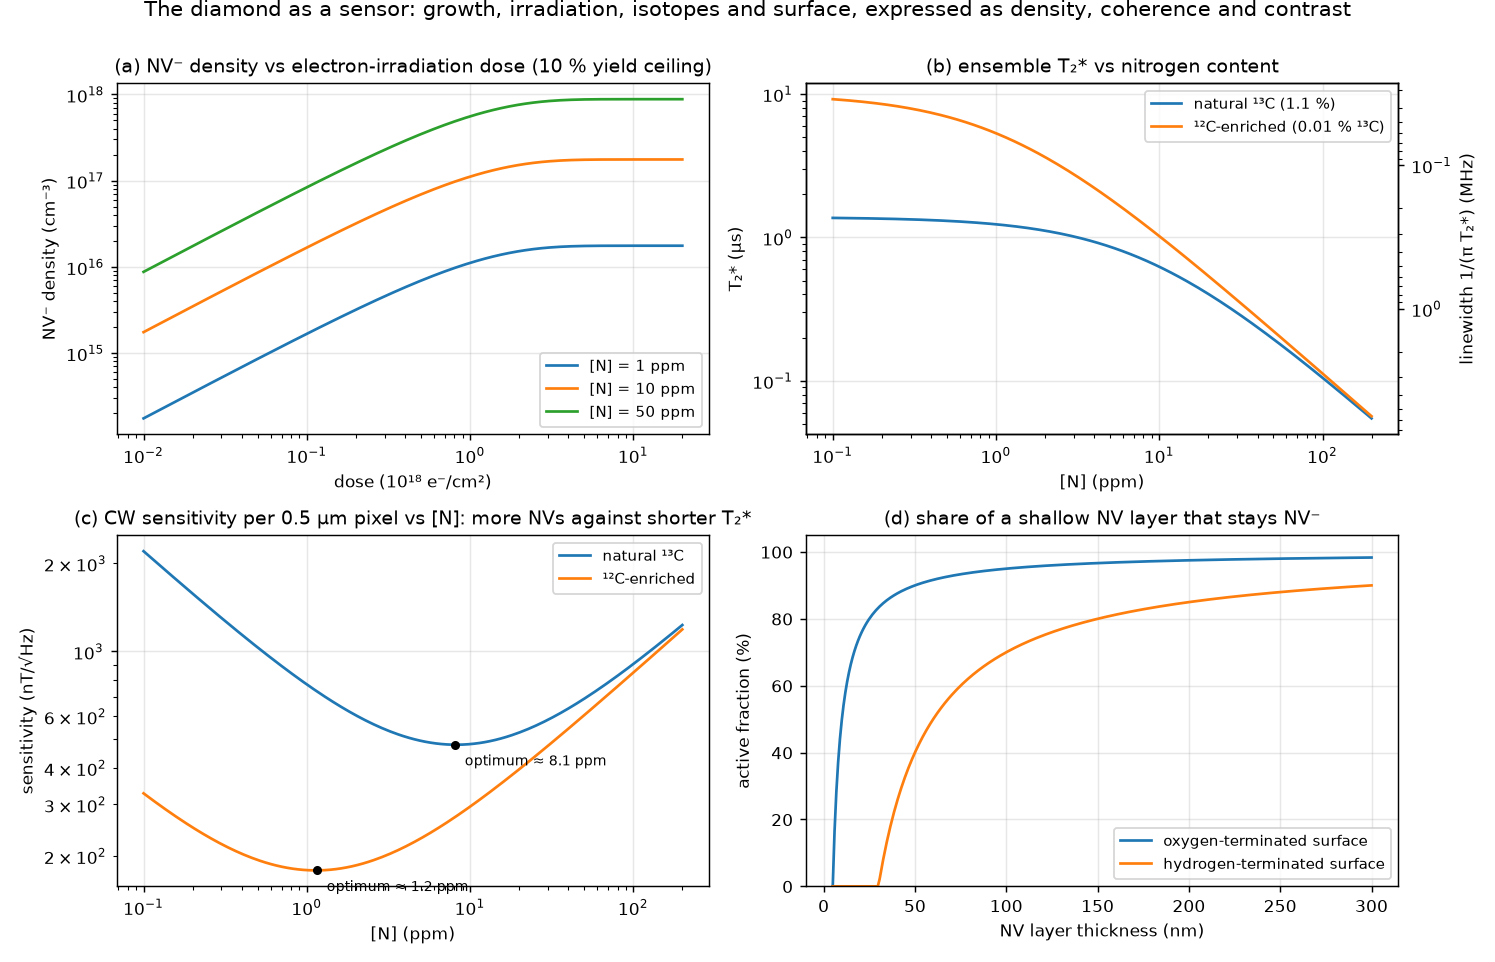
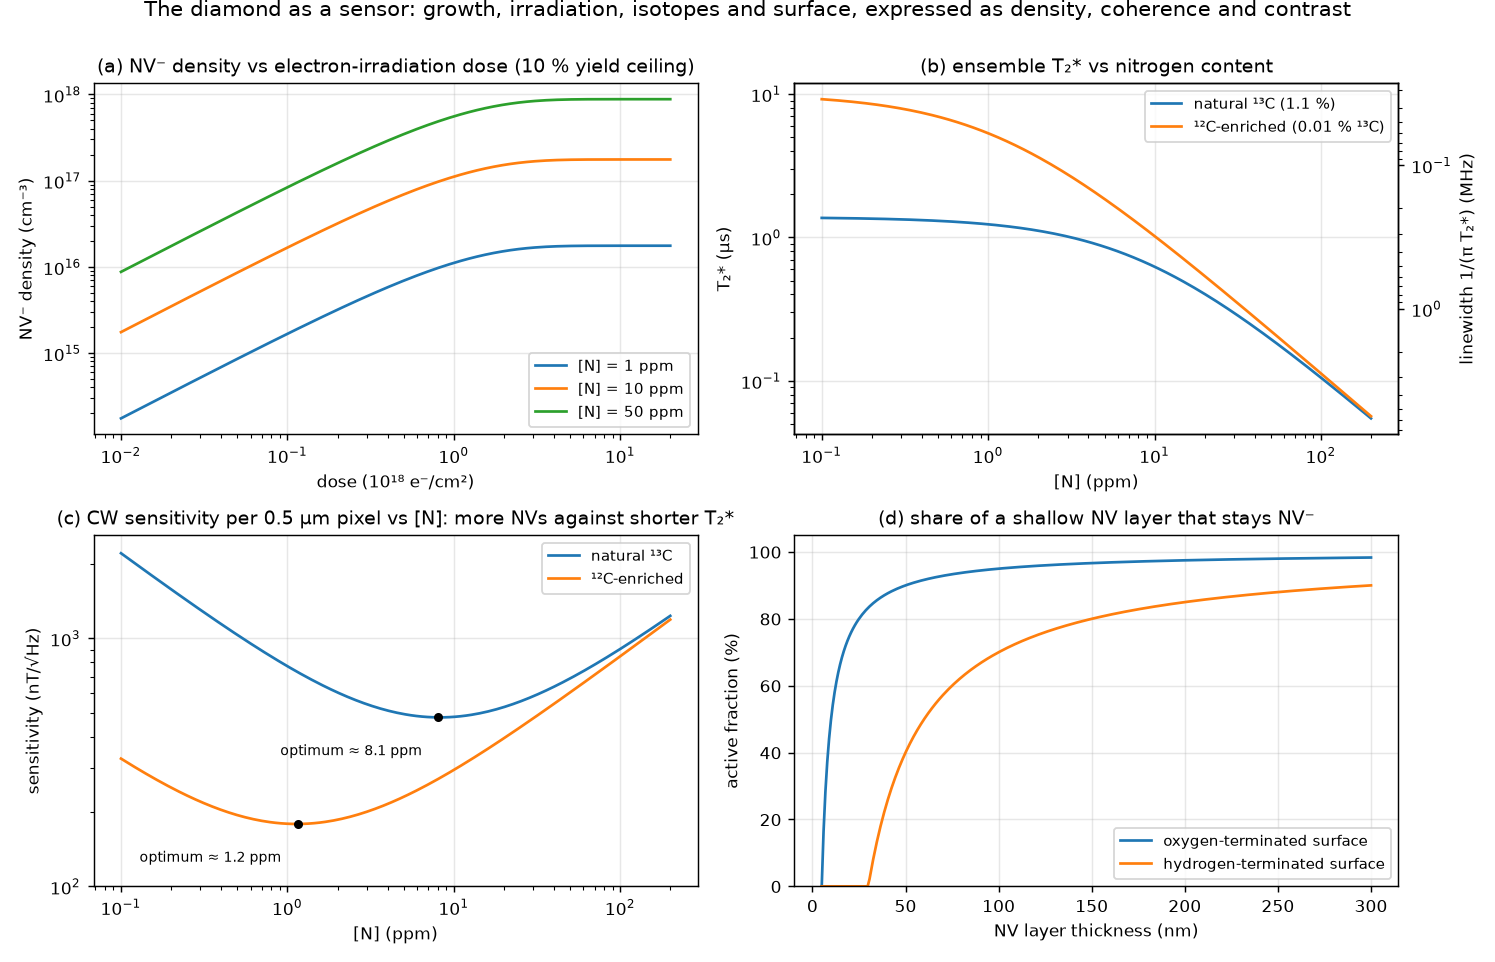
Figure layout: legends and in-plot labels placed clear of the curves; RMS values in the optiland panel titles

diff --git a/scripts/figs.py b/scripts/figs.py
@@ -46,7 +46,7 @@ a.plot((fz - f0) * 1e3, s1, label="B + 20 µT along the axis: shift 0.56 MHz")
 a.axvline(-0.29, color="k", ls=":", lw=0.8)
 a.annotate("readout point:\nthe steepest slope", xy=(-0.29, 0.9975), xytext=(-3.8, 0.9962), fontsize=8, arrowprops=dict(arrowstyle="->", color="k", lw=0.8))
 a.set(title="(c) how a field becomes a signal", xlabel="detuning from the line (MHz)", ylabel="fluorescence (normalised)")
-a.legend(loc="lower right")
+a.set_ylim(0.9925, 1.00025); a.legend(loc="lower right")
 fig.suptitle("Nitrogen-vacancy ground state: D = 2.870 GHz, γ = 28.0 MHz/mT, four <111> orientations", y=1.0)
 fig.tight_layout(); fig.savefig(OUT / "fig1_odmr.png"); print("fig1")
 
@@ -55,20 +55,19 @@ fig, ax = plt.subplots(1, 3, figsize=(12.5, 3.9))
 na = np.linspace(0.1, 0.95, 200)
 a = ax[0]
 a.plot(na, [100 * photons.collection_fraction(v) for v in na], label="bare (100) surface")
-a.plot(na, [100 * photons.collection_fraction(v, back_mirror=True) for v in na], label="bare + reflective back side")
-a.plot(na, [100 * photons.collection_fraction(v, sil=True) for v in na], label="solid immersion lens (n = 2.42)")
-a.axhline(100 * photons.escape_cone_fraction() * photons.FRESNEL_T_NORMAL, color="k", ls="--", lw=0.8)
-a.text(0.12, 4.1, "escape-cone limit of a flat surface, 3.8 %", fontsize=8)
+a.plot(na, [100 * photons.collection_fraction(v, back_mirror=True) for v in na], label="bare, mirrored back side")
+a.plot(na, [100 * photons.collection_fraction(v, sil=True) for v in na], label="solid immersion lens")
+a.axhline(100 * photons.escape_cone_fraction() * photons.FRESNEL_T_NORMAL, color="k", ls="--", lw=0.8, label="flat-surface escape cone: 3.8 %")
 a.set(title="(a) fraction of NV photons collected", xlabel="numerical aperture", ylabel="collected (%)", yscale="log", ylim=(0.05, 60))
-a.legend(loc="upper left")
+a.set_ylim(0.015, 60); a.legend(loc="lower right", fontsize=8)
 
 a = ax[1]
 I = np.logspace(1, 6.3, 300)
 cfg = {"bare, NA 0.9": photons.collection_fraction(0.9), "back mirror, NA 0.9": photons.collection_fraction(0.9, back_mirror=True), "SIL, NA 0.9": photons.collection_fraction(0.9, sil=True)}
 for lab, c in cfg.items():
     a.loglog(I, [photons.photon_rate_per_pixel(i, 1e17, 1.0, 1.0, c) for i in I], label=lab)
-a.axvline(1e3, color="gray", ls=":", lw=0.8); a.text(1.2e3, 2e9, "typical widefield\n1 kW/cm²", fontsize=8, color="gray")
-a.axhline(1e7, color="gray", ls="--", lw=0.8); a.text(15, 1.4e7, "camera full well at 100 frames/s", fontsize=8, color="gray")
+a.axvline(1e3, color="gray", ls=":", lw=0.8); a.text(7e2, 3e10, "typical widefield\n1 kW/cm²", fontsize=8, color="gray", ha="right")
+a.axhline(1e7, color="gray", ls="--", lw=0.8); a.text(2e6, 1.4e7, "camera full well at 100 frames/s", fontsize=8, color="gray", ha="right")
 a.set(title="(b) detected photons per 1 µm pixel", xlabel="532 nm intensity (W/cm²)", ylabel="photons / s / pixel")
 a.legend(loc="lower right")
 
@@ -101,7 +100,7 @@ for n_a in (0.5, 0.9):
     a.plot(ds, [optics.wire_response_width_um(n_a, d) for d in ds], label=f"NA {n_a}: peak-to-peak width")
     a.axhline(optics.diffraction_fwhm_um(n_a), color="gray", ls=":", lw=0.8)
 a.plot(ds, 2 * ds, "k--", lw=0.8, label="2 × stand-off")
-a.text(3.2, 0.9, "diffraction floors 0.71 / 0.40 µm", fontsize=8, color="gray")
+a.text(3.2, 1.15, "diffraction floors 0.71 / 0.40 µm", fontsize=8, color="gray")
 a.set(title="(b) imaged wire width vs stand-off", xlabel="stand-off d (µm)", ylabel="width (µm)")
 a.legend(loc="upper left")
 
@@ -112,7 +111,7 @@ for d in (0.5, 1.0, 2.0, 4.0):
     a.semilogx(period, optics.standoff_transfer(k, d), label=f"d = {d} µm")
 a.axhline(0.5, color="k", ls=":", lw=0.8)
 a.set(title="(c) stand-off as a low-pass filter", xlabel="spatial period of the current pattern (µm)", ylabel="field amplitude transferred")
-a.legend(loc="lower right")
+a.legend(loc="upper left")
 fig.suptitle("Spatial resolution: the NV layer sees the chip through the distance between them", y=1.0)
 fig.tight_layout(); fig.savefig(OUT / "fig5_resolution.png"); print("fig5")
 
@@ -149,9 +148,9 @@ im = ax[0, 2].imshow(bz_bare * 1e6, extent=ext, origin="lower", cmap="RdBu_r", v
 fig.colorbar(im, ax=ax[0, 2], label="Bz (µT)")
 jr_free = current.reconstruct_currents(bz, dx, D_TOP, k_cut_per_um=2.0 / D_TOP)
 jmax = np.hypot(*jr_free).max()
-im = ax[1, 0].imshow(np.hypot(*jr_bare), extent=ext, origin="lower", cmap="magma", vmin=0, vmax=jmax); ax[1, 0].set_title("(d) current map from (c), inverted at 1 µm")
+im = ax[1, 0].imshow(np.hypot(*jr_bare), extent=ext, origin="lower", cmap="magma", vmin=0, vmax=jmax); ax[1, 0].set_title("(d) current map from (c),\ninverted at 1 µm")
 fig.colorbar(im, ax=ax[1, 0], label="|J| (A/m)")
-im = ax[1, 1].imshow(np.hypot(*jr_sil), extent=ext, origin="lower", cmap="magma", vmin=0, vmax=jmax); ax[1, 1].set_title(f"(e) with a solid immersion lens: noise {s_sil * 1e9:.0f} nT")
+im = ax[1, 1].imshow(np.hypot(*jr_sil), extent=ext, origin="lower", cmap="magma", vmin=0, vmax=jmax); ax[1, 1].set_title(f"(e) with a solid immersion lens:\nnoise {s_sil * 1e9:.0f} nT")
 fig.colorbar(im, ax=ax[1, 1], label="|J| (A/m)")
 a = ax[1, 2]
 colls = np.logspace(-3, np.log10(0.6), 14)
@@ -165,7 +164,7 @@ for t, lab in ((1.0, "1 s per pixel"), (10.0, "10 s per pixel")):
         errs.append(current.rms_error(jr, j_ref))
     a.semilogx(colls * 100, errs, "o-", ms=3, label=lab)
 for c, lab in ((c_bare, "bare"), (c_sil, "SIL")):
-    a.axvline(c * 100, color="gray", ls=":", lw=0.8); a.text(c * 100 * 1.08, 0.95, lab, fontsize=8, color="gray")
+    a.axvline(c * 100, color="gray", ls=":", lw=0.8); a.text(c * 100 * 1.1, 0.5, lab, fontsize=8, color="gray", rotation=90, va="center")
 a.set(title="(f) noise in the current map vs collection", xlabel="collected fraction (%)", ylabel="RMS error vs noise-free inversion", ylim=(0, 1.0))
 a.legend(loc="upper right")
 for aa in ax.ravel()[:5]:

diff --git a/scripts/fig_rays.py b/scripts/fig_rays.py
@@ -45,17 +45,17 @@ a = ax[0, 2]
 nas = np.linspace(0.3, 0.95, 14)
 for mode, lab, est, kw in (("bare", "bare", lambda v: photons.collection_fraction(v), {}), ("mirror", "mirrored back", lambda v: photons.collection_fraction(v, back_mirror=True), {}), ("sil", "SIL, uncoated", None, {}), ("sil", "SIL, coated", lambda v: photons.collection_fraction(v, sil=True), {"sil_coated": True})):
     mc = [100 * rays.collection_mc(v, mode, n_rays=100_000, **kw) for v in nas]
-    ln, = a.semilogy(nas, mc, "o", ms=4, label=f"{lab}: ray trace")
-    if est: a.semilogy(nas, [100 * est(v) for v in nas], "-", color=ln.get_color(), lw=1, alpha=.7, label=f"{lab}: section 3 estimate")
-a.set(title="(c) collected fraction: traced vs estimated", xlabel="numerical aperture", ylabel="collected (%)"); a.legend(fontsize=7, loc="lower right")
+    ln, = a.semilogy(nas, mc, "o", ms=4, label=f"{lab}, traced")
+    if est: a.semilogy(nas, [100 * est(v) for v in nas], "-", color=ln.get_color(), lw=1, alpha=.7, label=f"{lab}, estimate")
+a.set(title="(c) collected fraction: traced vs estimated", xlabel="numerical aperture", ylabel="collected (%)", ylim=(0.3, 400)); a.legend(fontsize=7, loc="upper left", ncol=2, columnspacing=1.0)
 
 # (d) uniformity across the field with a SIL
 a = ax[1, 0]
 xs = np.linspace(0, 150, 16)
 for R in (1000, 500, 250):
     a.plot(xs, [100 * rays.collection_mc(0.9, "sil", n_rays=100_000, field_um=x, sil_radius_um=R) for x in xs], "o-", ms=3, label=f"SIL radius {R / 1000:g} mm")
-a.axvspan(0, 32, color="gray", alpha=.15); a.text(2, 21.9, "field of view\nof the simulation", fontsize=8)
-a.set(title="(d) SIL collection across the field", xlabel="distance from the SIL centre (µm)", ylabel="collected (%)", ylim=(20.5, 24.5)); a.legend(loc="lower left")
+a.axvspan(0, 32, color="gray", alpha=.15); a.text(2, 20.65, "field of view\nof the simulation", fontsize=8, va="bottom")
+a.set(title="(d) SIL collection across the field", xlabel="distance from the SIL centre (µm)", ylabel="collected (%)", ylim=(20.5, 24.5)); a.legend(loc="upper right")
 
 # (e) illumination: refraction into the slab
 a = ax[1, 1]
@@ -68,7 +68,7 @@ for off in (-36, 0, 36):
     a.plot([x0, x0 - 300 * np.tan(th_t)], [0, -300], color="C2", lw=1.2, alpha=.9)
 a.plot([0, -300 * np.tan(th_t)], [0, -300], color="k", ls=":", lw=0.8)
 a.text(-245, -30, "diamond, 300 µm", fontsize=8); a.text(-245, -290, "NV layer", fontsize=8)
-a.text(120, 150, f"in air: 53.6°\nin diamond: {f['theta_t_deg']:.1f}°\nFresnel: {100 * f['fresnel_t']:.0f} % enters", fontsize=8)
+a.text(-245, 150, f"in air: 53.6°\nin diamond: {f['theta_t_deg']:.1f}°\nFresnel: {100 * f['fresnel_t']:.0f} % enters", fontsize=8)
 a.set(title="(e) the beam refracts at the top face", xlabel="x (µm)", ylabel="z (µm)", xlim=(-250, 250), ylim=(-320, 260)); a.set_aspect("equal"); a.grid(False)
 
 # (f) footprint on the NV layer
@@ -78,6 +78,6 @@ a.plot(36 * np.cos(tt), 36 * np.sin(tt), "--", color="gray", label="beam cross-s
 a.plot(f["semi_axes_um"][0] * np.cos(tt), f["shift_um"] + f["semi_axes_um"][1] * np.sin(tt), color="C2", lw=2, label=f"footprint on the NV layer: {f['semi_axes_um'][0]:.0f} × {f['semi_axes_um'][1]:.0f} µm, shifted {f['shift_um']:.0f} µm")
 a.plot(0, 0, "k+", ms=8); a.plot(0, f["shift_um"], "+", color="C2", ms=8)
 a.text(-95, -80, f"peak intensity {100 * f['peak_factor']:.0f} % of the beam's:\nFresnel loss × stretch", fontsize=8)
-a.set(title="(f) footprint on the NV layer", xlabel="x (µm)", ylabel="y (µm, along the tilt)", xlim=(-100, 100), ylim=(-100, 190)); a.set_aspect("equal"); a.legend(fontsize=7.5, loc="upper left")
+a.set(title="(f) footprint on the NV layer", xlabel="x (µm)", ylabel="y (µm, along the tilt)", xlim=(-100, 100), ylim=(-100, 235)); a.set_aspect("equal"); a.legend(fontsize=7.5, loc="upper left")
 fig.suptitle("Ray tracing the two optical paths: what the surfaces do to the collection and to the illumination", y=1.0)
 fig.tight_layout(); fig.savefig(OUT / "fig9_rays.png"); print("fig9")

diff --git a/scripts/figs_material.py b/scripts/figs_material.py
@@ -45,9 +45,9 @@ for x, lab in ((material.C13_NATURAL, "natural ¹³C"), (1e-4, "¹²C-enriched")
         w = material.linewidth_hz(material.t2_star_s(n, x))
         eta.append(1e9 * protocols.eta_cw(r, w, material.contrast(), 2.0))
     a.loglog(nppm, eta, label=lab)
-    i = int(np.argmin(eta)); a.plot(nppm[i], eta[i], "ko", ms=4); a.text(nppm[i] * 1.15, eta[i] * 0.85, f"optimum ≈ {nppm[i]:.1f} ppm", fontsize=8)
+    i = int(np.argmin(eta)); a.plot(nppm[i], eta[i], "ko", ms=4); a.text(nppm[i] * 0.8, eta[i] * 0.78, f"optimum ≈ {nppm[i]:.1f} ppm", fontsize=8, ha="right", va="top")
 a.set(title="(c) CW sensitivity per 0.5 µm pixel vs [N]: more NVs against shorter T₂*", xlabel="[N] (ppm)", ylabel="sensitivity (nT/√Hz)")
-a.legend(loc="upper right")
+a.set_ylim(1.0e2, 2.6e3); a.legend(loc="upper right")
 
 a = ax[1, 1]
 thick = np.linspace(0.005, 0.3, 300)
@@ -70,7 +70,7 @@ eta = np.array([protocols.eta_cw(R, w0, c0, v) for v in s])
 a.semilogx(s, w, label="linewidth / intrinsic")
 a.semilogx(s, c, label="contrast / maximum")
 a.semilogx(s, eta / eta.min(), label="sensitivity / best")
-a.axvline(2, color="k", ls=":", lw=0.8); a.text(2.2, 3.2, "optimum s = 2:\nwidth ×√3, contrast ⅔", fontsize=8)
+a.axvline(2, color="k", ls=":", lw=0.8); a.text(28, 0.12, "dotted line: optimum s = 2,\nwidth ×√3, contrast ⅔", fontsize=8, ha="right", va="bottom")
 a.set(title="(a) CW ODMR against microwave drive", xlabel="saturation parameter s = (Ω/Ω_sat)²", ylabel="relative", ylim=(0, 4))
 a.legend(loc="upper left")
 
@@ -80,7 +80,7 @@ a.loglog(t2 * 1e6, [1e9 * protocols.eta_cw(R, material.linewidth_hz(t), c0, 2.0)
 a.loglog(t2 * 1e6, [1e9 * protocols.eta_pulsed_odmr(R, t, c0) for t in t2], label="pulsed ODMR (1 µs readout, 2 µs init)")
 a.loglog(t2 * 1e6, [1e9 * protocols.eta_ramsey(R, t, c0) for t in t2], label="Ramsey, τ = T₂*/2")
 a.set(title="(b) sensitivity vs T₂* at the widefield photon rate", xlabel="T₂* (µs)", ylabel="sensitivity per pixel (nT/√Hz)")
-a.legend(loc="upper right")
+a.legend(loc="lower left")
 
 a = ax[2]
 tr = np.logspace(-7, -5, 200)

diff --git a/scripts/optiland_imaging.py b/scripts/optiland_imaging.py
@@ -56,14 +56,14 @@ if __name__ == "__main__":
     rows = []
     airy = 0.61 * LAMBDA_UM / 0.9
     for a, (mode, na, lab) in zip(ax, cases):
-        o = system(mode, na)
+        o = system(mode, na); pair = []
         for hy, fy, col in ((0.0, 0, "C0"), (1.0, 32, "C3")):
             x, y, rms = spot(o, hy)
-            a.plot(x, y, ".", ms=2, color=col, alpha=.6, label=f"field {fy} µm: RMS {rms:.2f} µm")
-            rows.append((lab, fy, rms))
+            a.plot(x, y, ".", ms=2, color=col, alpha=.6, label="centre of the field" if fy == 0 else "32 µm off centre")
+            rows.append((lab, fy, rms)); pair.append(rms)
         c = plt.Circle((0, 0), airy, fill=False, color="k", ls=":", lw=1); a.add_patch(c)
-        a.set(title=lab, xlabel="x at the NV layer (µm)", ylabel="y (µm)", xlim=(-3, 3), ylim=(-3, 3)); a.set_aspect("equal"); a.legend(fontsize=8, loc="upper right"); a.grid(alpha=.3)
-    ax[0].text(-2.9, -2.8, f"dotted: Airy radius {airy:.2f} µm at NA 0.9", fontsize=8)
+        a.set(xlabel="x at the NV layer (µm)", ylabel="y (µm)", xlim=(-3, 3), ylim=(-3, 3)); a.set_title(f"{lab}\nRMS {pair[0]:.2f} µm at the centre, {pair[1]:.2f} µm at 32 µm off", fontsize=10); a.set_aspect("equal"); a.grid(alpha=.3)
+    ax[1].legend(fontsize=8, loc="upper right"); ax[1].text(-2.9, -2.8, f"dotted: Airy radius {airy:.2f} µm at NA 0.9", fontsize=8)
     fig.suptitle("Spot diagrams at the NV layer through an ideal objective (optiland 0.6.1): the diamond plate adds spherical aberration, the SIL does not", y=1.0)
     fig.tight_layout(); fig.savefig(OUT / "fig10_optiland.png"); print("fig10")
     for lab, fy, rms in rows:

diff --git a/scripts/fig_two_layer.py b/scripts/fig_two_layer.py
@@ -59,10 +59,9 @@ for i, (lab, vals) in enumerate(rows.items()):
     v = np.array(vals) * 1e6
     a.bar(xs + (i - 1) * w, v[:, 1], w, label=f"{lab}: deep loop", color=f"C{i}")
     a.bar(xs + (i - 1) * w, v[:, 0], w * 0.5, color=f"C{i}", alpha=0.55, hatch="//")
-a.axhline(60, color="k", ls="--", lw=0.8); a.axhline(20, color="k", ls=":", lw=0.8)
-a.text(2.45, 61.5, "true 60 µA (deep)", fontsize=8, ha="right"); a.text(2.45, 21.5, "true 20 µA (shallow, hatched)", fontsize=8, ha="right")
+a.axhline(60, color="k", ls="--", lw=0.8, label="true 60 µA (deep)"); a.axhline(20, color="k", ls=":", lw=0.8, label="true 20 µA (shallow, hatched bars)")
 a.set(title="(f) recovered loop currents against noise", xticks=xs, xticklabels=labels, ylabel="current (µA)", ylim=(0, 92))
-a.legend(loc="upper left", fontsize=7.5, ncol=1, framealpha=0.95)
+a.set_ylim(0, 100); a.legend(loc="upper left", fontsize=7.5, ncol=1, framealpha=0.95)
 fig.suptitle("Two metal levels from one field map: what the depths and the layout buy (SIL, 1 s per pixel, 219 nT noise)", y=1.0)
 fig.tight_layout(); fig.savefig(OUT / "fig7_two_layer.png"); print("fig7")
 for lab, vals in rows.items():
